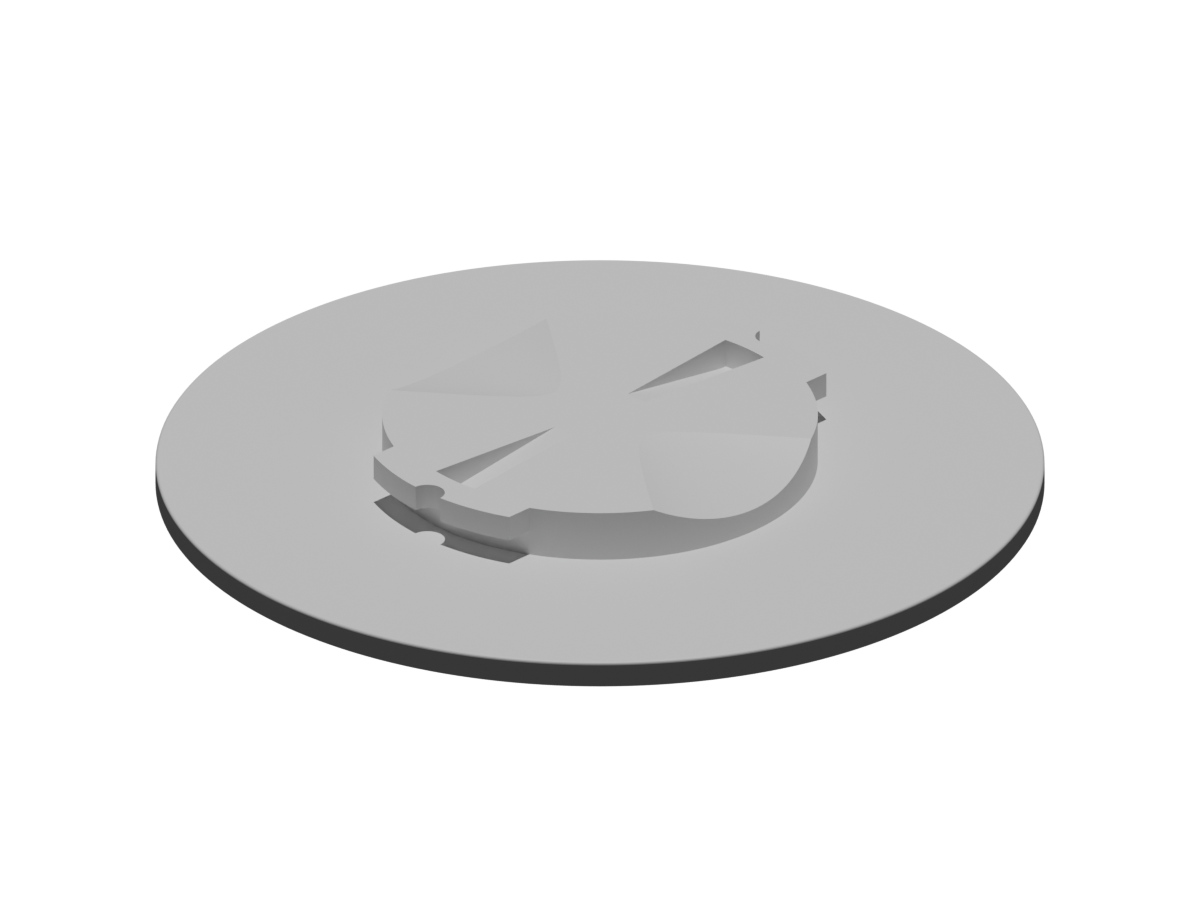
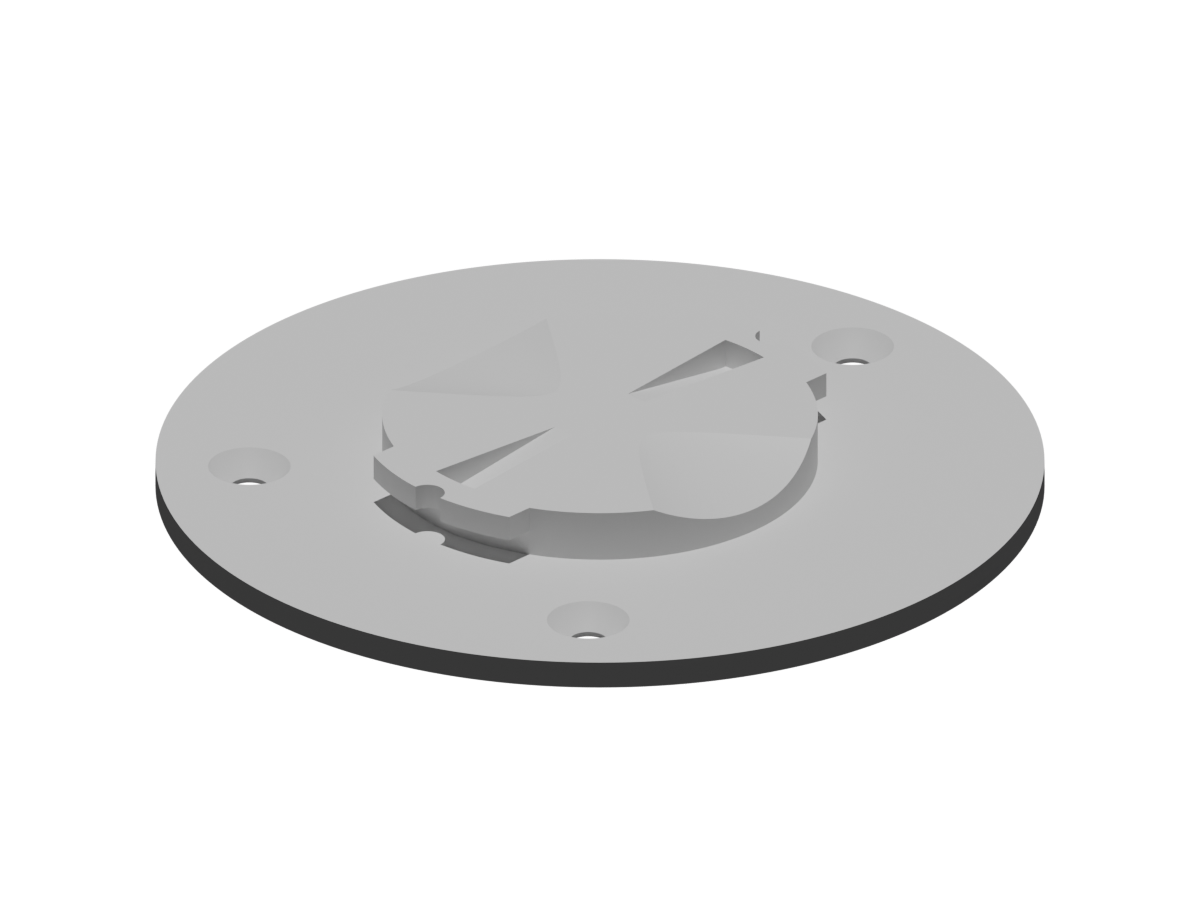
Retain screw holes in closed Garmin plate

diff --git a/hardware/cad/waveshare_amoled_175_bottom_plate.py b/hardware/cad/waveshare_amoled_175_bottom_plate.py
@@ -172,7 +172,8 @@ def build_model(
     stl_path=STL_PATH,
     blend_path=BLEND_PATH,
     top_connector_top_inset_mm=0.0,
-    include_cutouts=True,
+    include_screw_holes=True,
+    include_rectangular_cutouts=True,
     save_blend=True,
 ):
     clean_scene()
@@ -199,9 +200,8 @@ def build_model(
         PARAMS["screw_countersink_outer_dia"] - PARAMS["m2_through_dia"]
     ) / (2.0 * math.tan(math.radians(PARAMS["screw_countersink_angle_deg"] / 2.0)))
 
-    if include_cutouts:
-        cutters = []
-
+    cutters = []
+    if include_screw_holes:
         for idx, (x, y) in enumerate(SCREW_CENTERS, start=1):
             through = add_cylinder(
                 f"m2_through_hole_cutter_{idx}",
@@ -227,6 +227,7 @@ def build_model(
             bool_difference(plate, countersink, "m2_90deg_countersink")
             cutters.append(countersink)
 
+    if include_rectangular_cutouts:
         # Bottom header opening: the STEP reference shows this as one continuous
         # rectangular opening, not eight separate pin apertures.
         header_opening = make_rounded_box_cutter(
@@ -255,9 +256,9 @@ def build_model(
             bool_difference(plate, conn_cut, "rear_connector_access_cutout")
             cutters.append(conn_cut)
 
-        for cutter in cutters:
-            cutter.hide_viewport = True
-            cutter.hide_render = True
+    for cutter in cutters:
+        cutter.hide_viewport = True
+        cutter.hide_render = True
 
     # Non-printing reference rings so the plate can be checked against the
     # internal PCB/display dimensions without adding them to the STL.
@@ -286,7 +287,8 @@ def build_model(
     root["screw_countersink_depth"] = countersink_depth
     root["screw_centers_xy_mm"] = str(SCREW_CENTERS)
     root["top_connector_top_inset_mm"] = top_connector_top_inset_mm
-    root["include_cutouts"] = include_cutouts
+    root["include_screw_holes"] = include_screw_holes
+    root["include_rectangular_cutouts"] = include_rectangular_cutouts
 
     camera_data = bpy.data.cameras.new("Camera")
     camera = bpy.data.objects.new("Camera", camera_data)

diff --git a/hardware/cad/waveshare_amoled_175_bottom_board_garmin.py b/hardware/cad/waveshare_amoled_175_bottom_board_garmin.py
@@ -272,13 +272,15 @@ def build_no_holes_garmin_plate():
         bottom_plate_stl = Path(tmp_dir) / "waveshare_amoled_175_bottom_board_no_holes.stl"
         waveshare_amoled_175_bottom_plate.build_model(
             stl_path=bottom_plate_stl,
-            include_cutouts=False,
+            top_connector_top_inset_mm=TOP_CONNECTOR_TOP_INSET_MM,
+            include_screw_holes=True,
+            include_rectangular_cutouts=False,
             save_blend=False,
         )
         build_scene(
             bottom_plate_stl=bottom_plate_stl,
             combined_stl_path=NO_HOLES_STL_PATH,
-            variant_note="Solid bottom plate with screw and connector cutouts closed",
+            variant_note="Bottom plate with rectangular connector cutouts closed and screw holes retained",
         )
 
 

diff --git a/hardware/cad/README.md b/hardware/cad/README.md
@@ -8,14 +8,14 @@ This folder contains the source and printable CAD files for the Waveshare ESP32-
 - `garmin-mount.stl`: Source Garmin male mount geometry used by the Garmin bottom plate generator.
 - `waveshare_amoled_175_bottom_board_garmin.py`: Blender Python source that combines the plain bottom plate with the Garmin mount locking features.
 - `waveshare_amoled_175_bottom_board_garmin.stl`: Printable bottom plate with the Garmin mount, using the tested no-extra-base design and 0.5 mm tighter top connector cutouts.
-- `waveshare_amoled_175_bottom_board_garmin_no_holes.stl`: Printable Garmin bottom plate variant with screw and connector cutouts closed.
+- `waveshare_amoled_175_bottom_board_garmin_no_holes.stl`: Printable Garmin bottom plate variant with the three rectangular cutouts closed and screw holes retained.
 - `*.png`: Rendered previews generated from the STL files.
 
 ## Screws
 
 - `waveshare_amoled_175_bottom_board.stl`: uses three M2x3.5 screws.
 - `waveshare_amoled_175_bottom_board_garmin.stl`: uses three M2x6 screws.
-- `waveshare_amoled_175_bottom_board_garmin_no_holes.stl`: no bottom-plate screw holes.
+- `waveshare_amoled_175_bottom_board_garmin_no_holes.stl`: uses three M2x6 screws.
 
 ## STL Previews
 
@@ -24,7 +24,7 @@ This folder contains the source and printable CAD files for the Waveshare ESP32-
 | `waveshare_amoled_175_bottom_board.stl` | ![Plain Waveshare bottom plate](waveshare_amoled_175_bottom_board.png) |
 | `garmin-mount.stl` | ![Garmin male mount source geometry](garmin-mount.png) |
 | `waveshare_amoled_175_bottom_board_garmin.stl` = `waveshare_amoled_175_bottom_board.stl` + `garmin-mount.stl` | ![Waveshare bottom plate with Garmin mount](waveshare_amoled_175_bottom_board_garmin.png) |
-| `waveshare_amoled_175_bottom_board_garmin_no_holes.stl` = closed-hole `waveshare_amoled_175_bottom_board_garmin.stl` | ![Waveshare bottom plate with Garmin mount and closed holes](waveshare_amoled_175_bottom_board_garmin_no_holes.png) |
+| `waveshare_amoled_175_bottom_board_garmin_no_holes.stl` = `waveshare_amoled_175_bottom_board_garmin.stl` with the three rectangular cutouts closed | ![Waveshare bottom plate with Garmin mount and closed rectangular cutouts](waveshare_amoled_175_bottom_board_garmin_no_holes.png) |
 
 Regenerate the printable files from this folder with Blender:
 